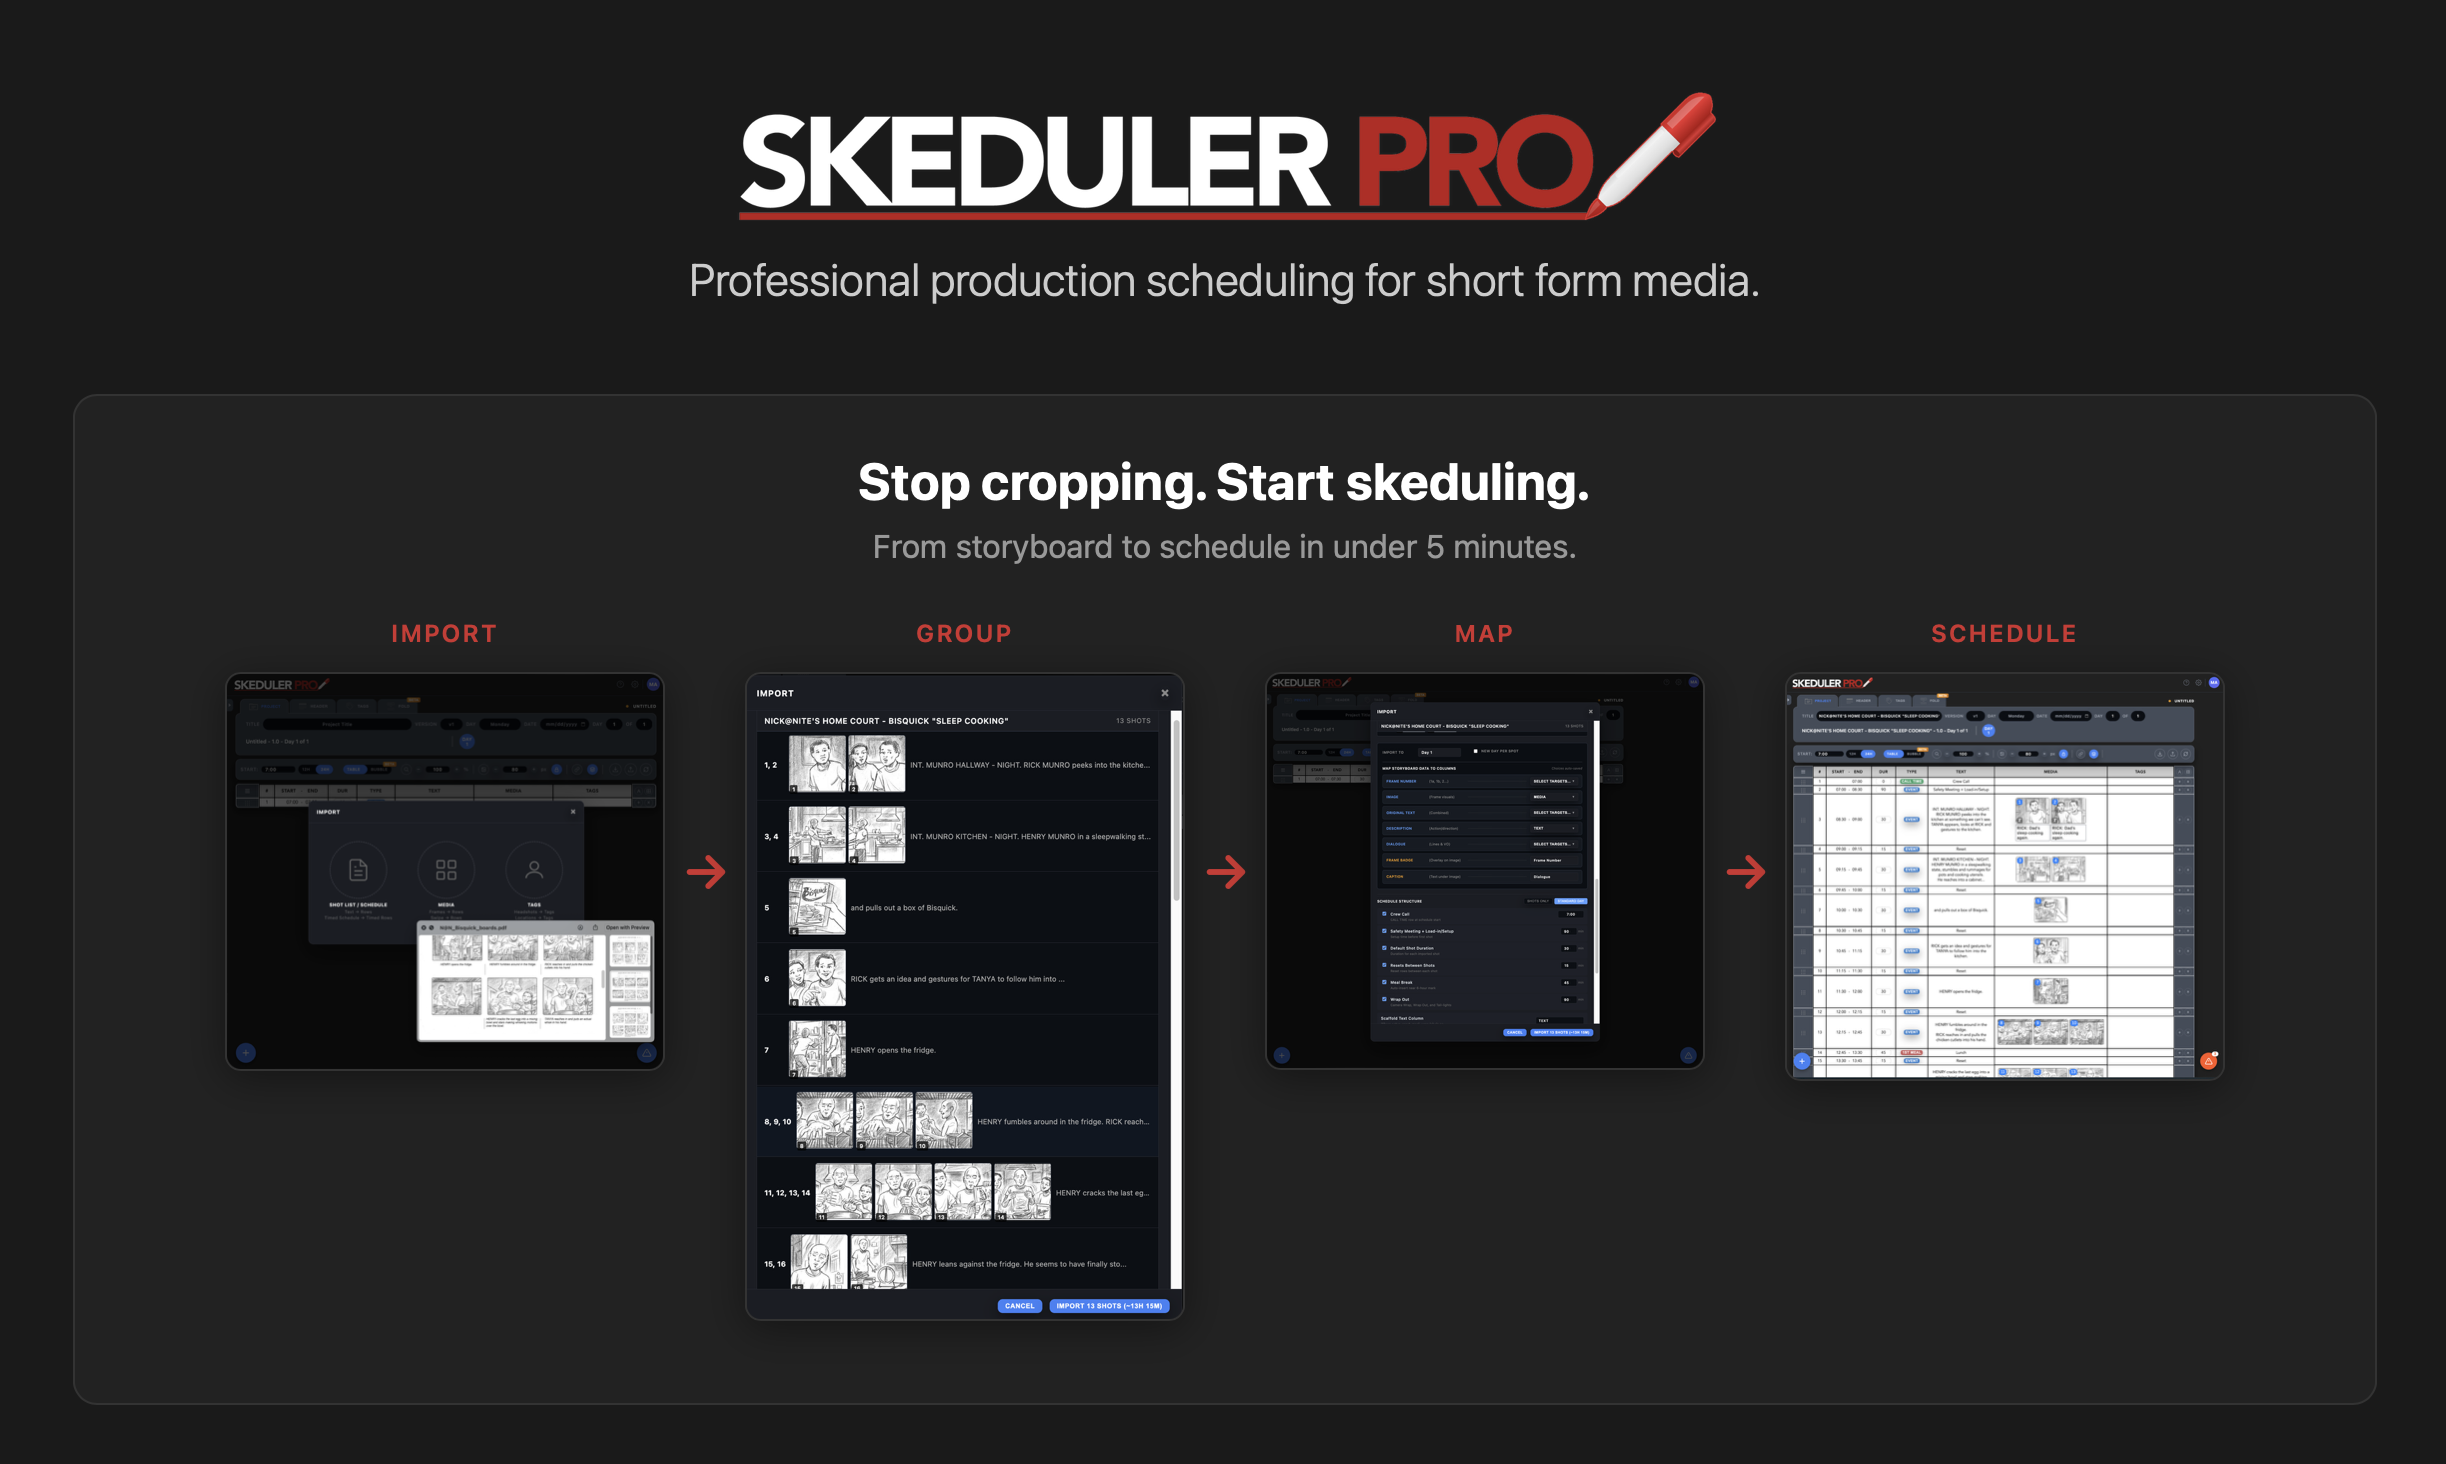
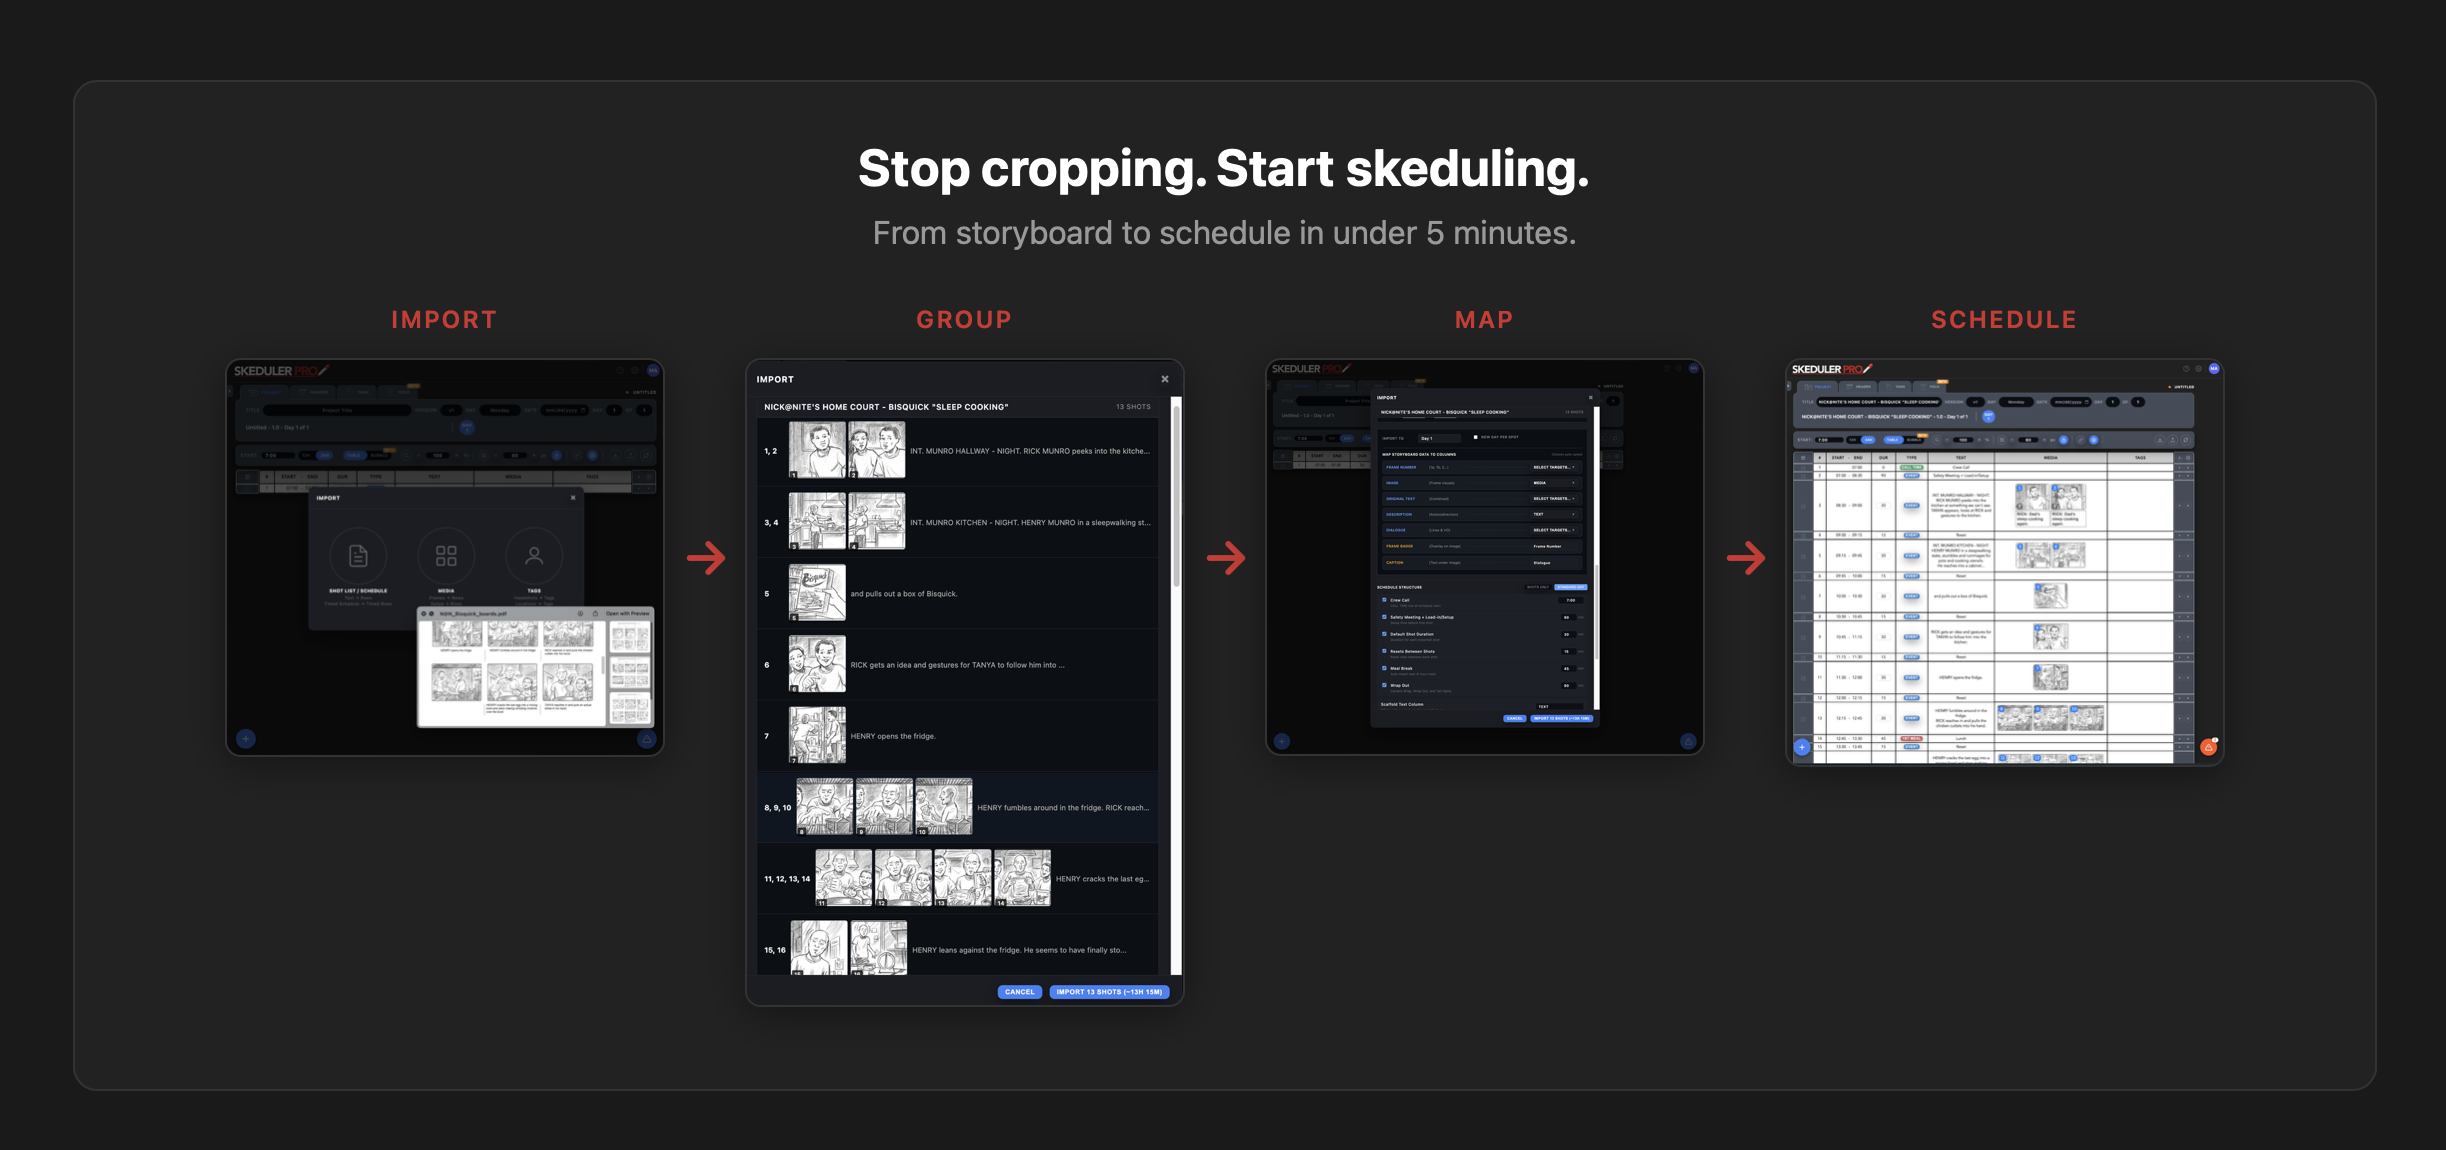
Update subtitle, mobile spacing, red border, image sizing, cropped email hero

diff --git a/index.html b/index.html
@@ -4,11 +4,11 @@
     <meta charset="UTF-8">
     <meta name="viewport" content="width=device-width, initial-scale=1.0">
     <title>SkedulerPro - Professional Production Scheduling</title>
-    <meta name="description" content="Professional production scheduling for short form media.">
+    <meta name="description" content="Professional production scheduling.">
 
     <!-- Open Graph / Social Sharing -->
     <meta property="og:title" content="SkedulerPro">
-    <meta property="og:description" content="Professional production scheduling for short form media.">
+    <meta property="og:description" content="Professional production scheduling.">
     <meta property="og:image" content="https://www.skedulerpro.com/Skeduler_web_LOGO.png">
     <meta property="og:url" content="https://www.skedulerpro.com">
     <meta property="og:type" content="website">
@@ -16,7 +16,7 @@
     <!-- Twitter Card -->
     <meta name="twitter:card" content="summary_large_image">
     <meta name="twitter:title" content="SkedulerPro">
-    <meta name="twitter:description" content="Professional production scheduling for short form media.">
+    <meta name="twitter:description" content="Professional production scheduling.">
     <meta name="twitter:image" content="https://www.skedulerpro.com/Skeduler_web_LOGO.png">
 
     <!-- Apple Touch Icon (for iOS home screen & iMessage previews) -->
@@ -184,11 +184,11 @@
         /* Demo Progression */
         .demo-section {
             text-align: center;
-            padding: 22px 24px 41px;
+            padding: 22px 42px 41px;
             margin-top: -24px;
             margin-bottom: 16px;
             background-color: #222222;
-            border: 1px solid #333333;
+            border: 3px solid #d32f2f;
             border-radius: 12px;
         }
 
@@ -218,7 +218,7 @@
             display: flex;
             flex-direction: column;
             align-items: center;
-            flex: 0 1 220px;
+            flex: 1 1 0;
         }
 
         .demo-step img {
@@ -277,12 +277,16 @@
         }
 
         @media (max-width: 480px) {
+            .demo-steps {
+                gap: 0;
+            }
             .demo-step {
                 flex: 0 1 100%;
             }
             .demo-arrow {
                 transform: rotate(90deg);
                 padding-top: 0;
+                margin: -8px 0;
             }
         }
 
@@ -405,7 +409,7 @@
     <div class="container">
         <header>
             <img src="Skeduler_web_LOGO.png" alt="SkedulerPro" class="logo">
-            <p class="tagline">Professional production scheduling for short form media.</p>
+            <p class="tagline">Professional production scheduling.</p>
         </header>
 
         <section class="demo-section">

diff --git a/email-launch.html b/email-launch.html
@@ -23,7 +23,7 @@
                     <!-- Tagline -->
                     <tr>
                         <td align="center" style="padding-bottom: 32px; font-size: 18px; color: #cccccc; font-weight: 300;">
-                            Professional production scheduling for short form media.
+                            Professional production scheduling.
                         </td>
                     </tr>
 
